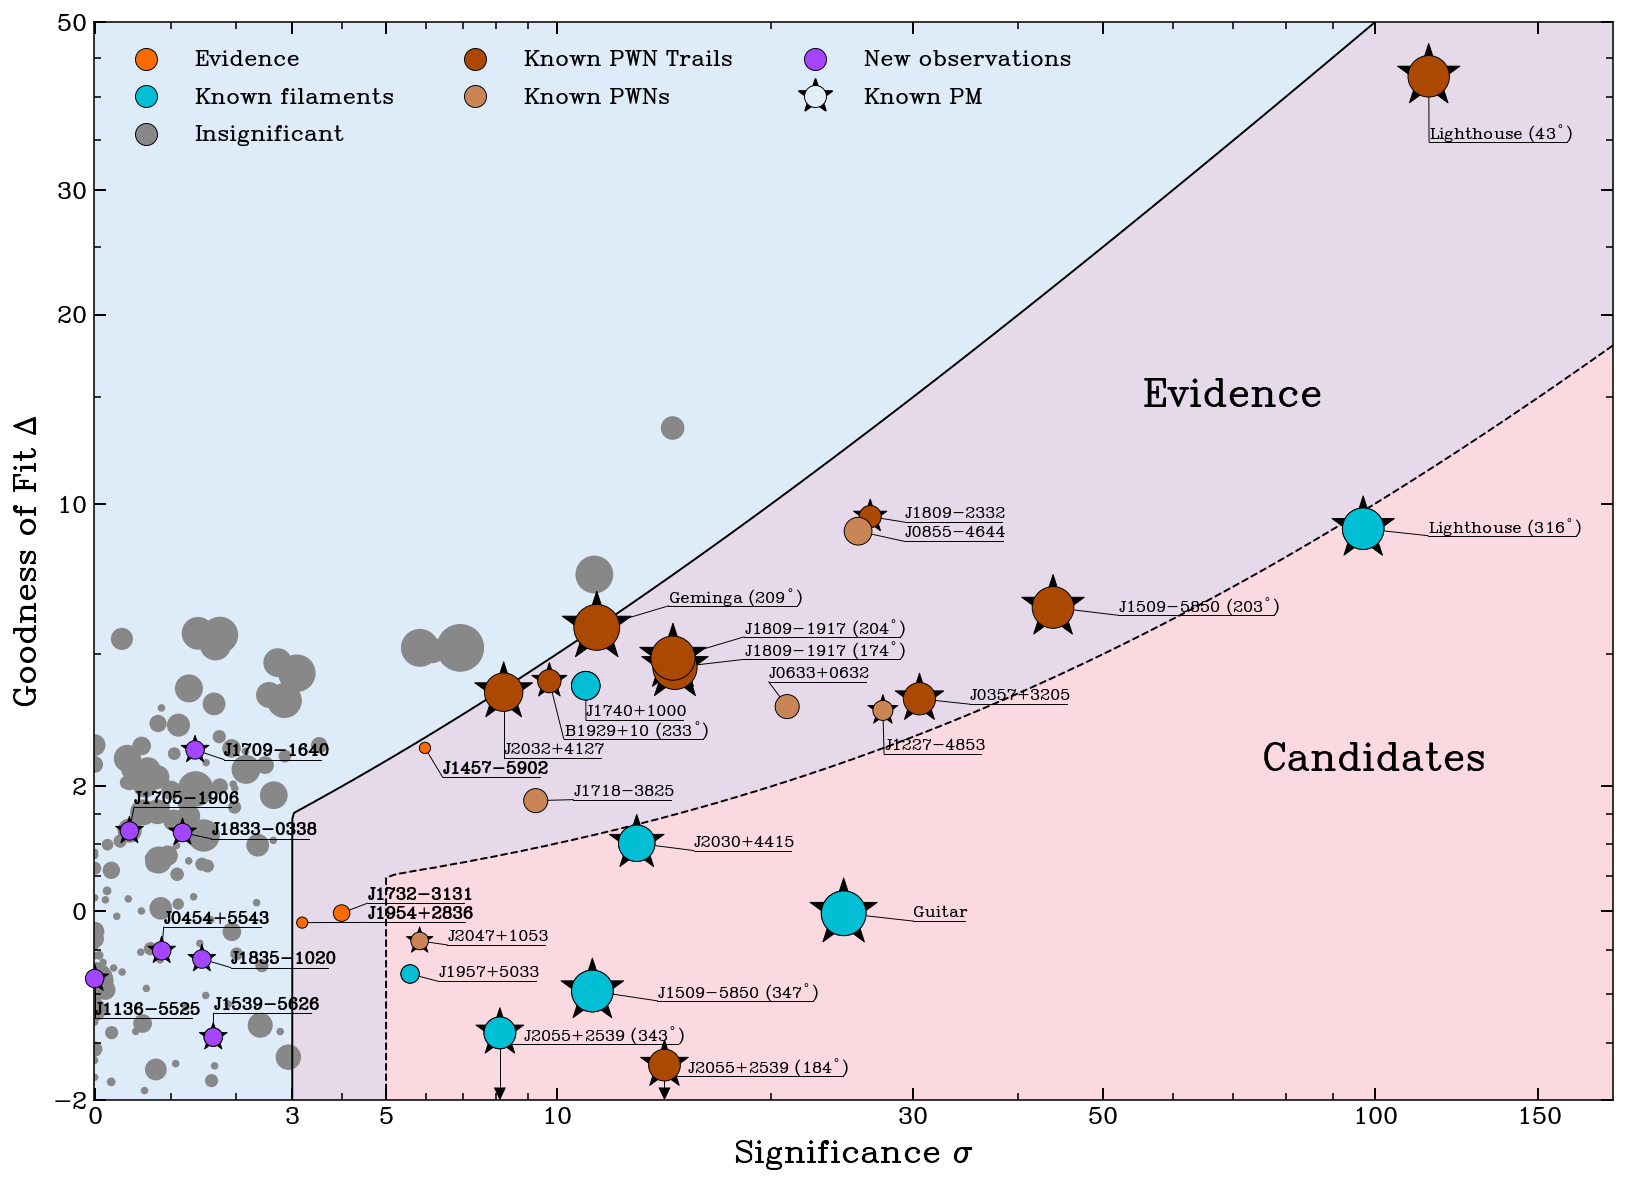
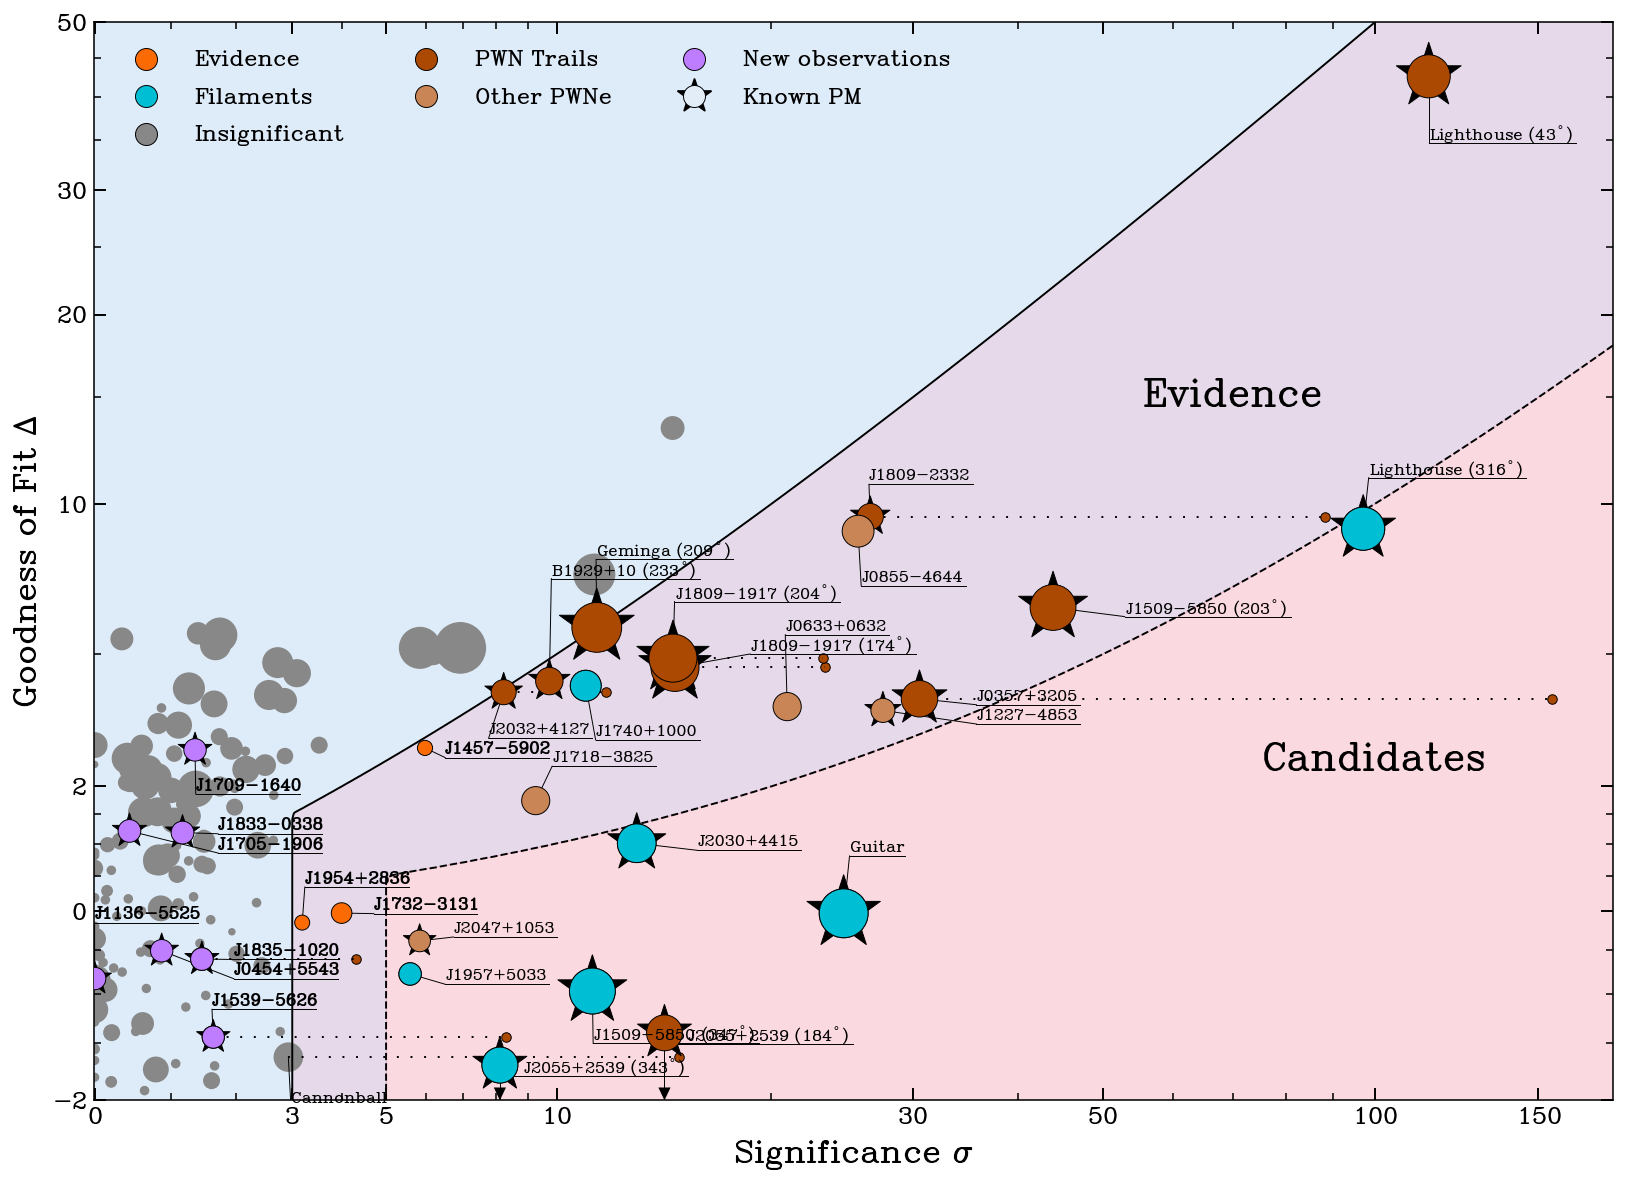
Figure update

diff --git a/filaments/filament.html b/filaments/filament.html
@@ -29,20 +29,13 @@
         <script type="module">
             const POSITIONS = {
                 "Lighthouse:(43$^\circ$)":	[0.8788,	0.95,	2.1e+01],
-"J1136-5525":	[0.0005541,	0.1131,	9.5],
-"J1539-5626":	[0.07865,	0.05873,	9.5],
-"J1705-1906":	[0.02346,	0.25,	9.5],
-"J1709-1640":	[0.06664,	0.3252,	9.5],
-"J0454+5543":	[0.04468,	0.1388,	9.5],
-"J1835-1020":	[0.07114,	0.1311,	9.5],
-"J1833-0338":	[0.05839,	0.2485,	9.5],
 "Lighthouse:(316$^\circ$)":	[0.8357,	0.5304,	2.1e+01],
 "J1509-5850:(203$^\circ$)":	[0.6315,	0.4573,	2.1e+01],
 "J1509-5850:(347$^\circ$)":	[0.3282,	0.1015,	2.1e+01],
 "J0357+3205":	[0.5436,	0.3726,	1.7e+01],
 "J1227-4853":	[0.5195,	0.3618,	1e+01],
-"J2055+2539:(184$^\circ$)":	[0.3757,	0.03277,	1.6e+01],
-"J2055+2539:(343$^\circ$)":	[0.2673,	0.06268,	1.6e+01],
+"J2055+2539:(184$^\circ$)":	[0.3757,	0.06268,	1.6e+01],
+"J2055+2539:(343$^\circ$)":	[0.2673,	0.03277,	1.6e+01],
 "J1809-2332":	[0.5111,	0.5416,	1.1e+01],
 "J0855-4644":	[0.5032,	0.528,	1.4e+01],
 "Guitar":	[0.4936,	0.1736,	2.3e+01],
@@ -67,7 +60,7 @@
 "J1531-5610":	[0.1484,	0.3295,	7.4],
 "J1954+2836":	[0.1372,	0.165,	5.7],
 "J1308+2127":	[0.1337,	0.3963,	1.8e+01],
-"Cannonball":	[0.1281,	0.06946,	1.2e+01],
+"Cannonball":	[0.1281,	0.04015,	1.2e+01],
 "J1412-6145":	[0.1258,	0.3194,	5.5],
 "J1836+5925":	[0.1255,	0.3709,	1.7e+01],
 "J1611-5847":	[0.1227,	0.06386,	2.9],
@@ -98,6 +91,7 @@
 "B1055-52":	[0.08011,	0.4227,	1.5e+01],
 "B1717-29":	[0.07953,	0.03207,	2.9],
 "J1816+4510":	[0.07917,	0.3678,	1.1e+01],
+"J1539-5626":	[0.07865,	0.05873,	9.5],
 "J1302-3258":	[0.07751,	0.01834,	5.8],
 "J1911+1758":	[0.07696,	0.1676,	2.9],
 "J0101-6422":	[0.0748,	0.2175,	5.7],
@@ -106,9 +100,11 @@
 "J2256-1024":	[0.07265,	0.2402,	8.5],
 "B0656+14":	[0.0723,	0.2458,	1.6e+01],
 "J1514-4946":	[0.07117,	0.2191,	5.8],
+"J1835-1020":	[0.07114,	0.1311,	9.5],
 "J1753-1914":	[0.06983,	0.1457,	2.9],
 "J0538+2817":	[0.06863,	0.4333,	1.6e+01],
 "J0806-4123":	[0.06699,	0.2889,	1.7e+01],
+"J1709-1640":	[0.06664,	0.3252,	9.5],
 "J1210-6550":	[0.06569,	0.1889,	2.9],
 "J1905+0902":	[0.06484,	0.03277,	6.9],
 "J1744-1134":	[0.06261,	0.3822,	1.3e+01],
@@ -116,6 +112,7 @@
 "J1429-5911":	[0.06244,	0.2639,	1.1e+01],
 "J2235+1506":	[0.06057,	0.08661,	2.9],
 "J1103-5403":	[0.0597,	0.2749,	5.8],
+"J1833-0338":	[0.05839,	0.2485,	9.5],
 "J1819-1318":	[0.0572,	0.2483,	2.9],
 "B0906-49":	[0.05574,	0.3481,	1.1e+01],
 "J1810-1820":	[0.05554,	0.1821,	4.9],
@@ -130,6 +127,7 @@
 "J2307+2225":	[0.04804,	0.2942,	2.8],
 "B0138+59":	[0.04757,	0.2727,	2.9],
 "J1739-3951":	[0.0464,	0.03277,	3.5],
+"J0454+5543":	[0.04468,	0.1388,	9.5],
 "J1410-7404":	[0.04454,	0.3641,	2.9],
 "J0609+2130":	[0.04426,	0.2733,	3.5],
 "J1909-3744":	[0.04407,	0.1782,	1.1e+01],
@@ -157,6 +155,7 @@
 "J2048+2255":	[0.02467,	0.03277,	2.8],
 "J0734-1559":	[0.02362,	0.2953,	7.4],
 "J1640-4648":	[0.02359,	0.2503,	1.1e+01],
+"J1705-1906":	[0.02346,	0.25,	9.5],
 "B2016+28":	[0.02269,	0.187,	2.9],
 "J0420-5022":	[0.02212,	0.3172,	1.3e+01],
 "J1928+1746":	[0.02146,	0.2948,	5.8],
@@ -185,6 +184,7 @@
 "J1838+1650":	[0.0005541,	0.1615,	2.9],
 "J1739-3023":	[0.0005541,	0.04764,	7.0],
 "J0847-4316":	[0.0005541,	0.1002,	6.1],
+"J1136-5525":	[0.0005541,	0.1131,	9.5],
 "J0108-1431":	[0.0005541,	0.3296,	1e+01],
 "J1333-4449":	[0.0005541,	0.09661,	2.9],
 "B1133-55":	[0.0005541,	0.1007,	9.4],
@@ -213,7 +213,7 @@
                 for (var key in POSITIONS) {
                     let fracX = POSITIONS[key][0];
                     let fracY = 1. - POSITIONS[key][1];
-                    let radius = POSITIONS[key][2] / 1400.;
+                    let radius = Math.max(POSITIONS[key][2] / 1400., 0.01);
                     if (((plotXFrac - fracX)/aspect)**(2) + (plotYFrac - fracY)**(2) < radius**(2)) {
                         let path = key.split(':')[0];
                         if (key != up) {
